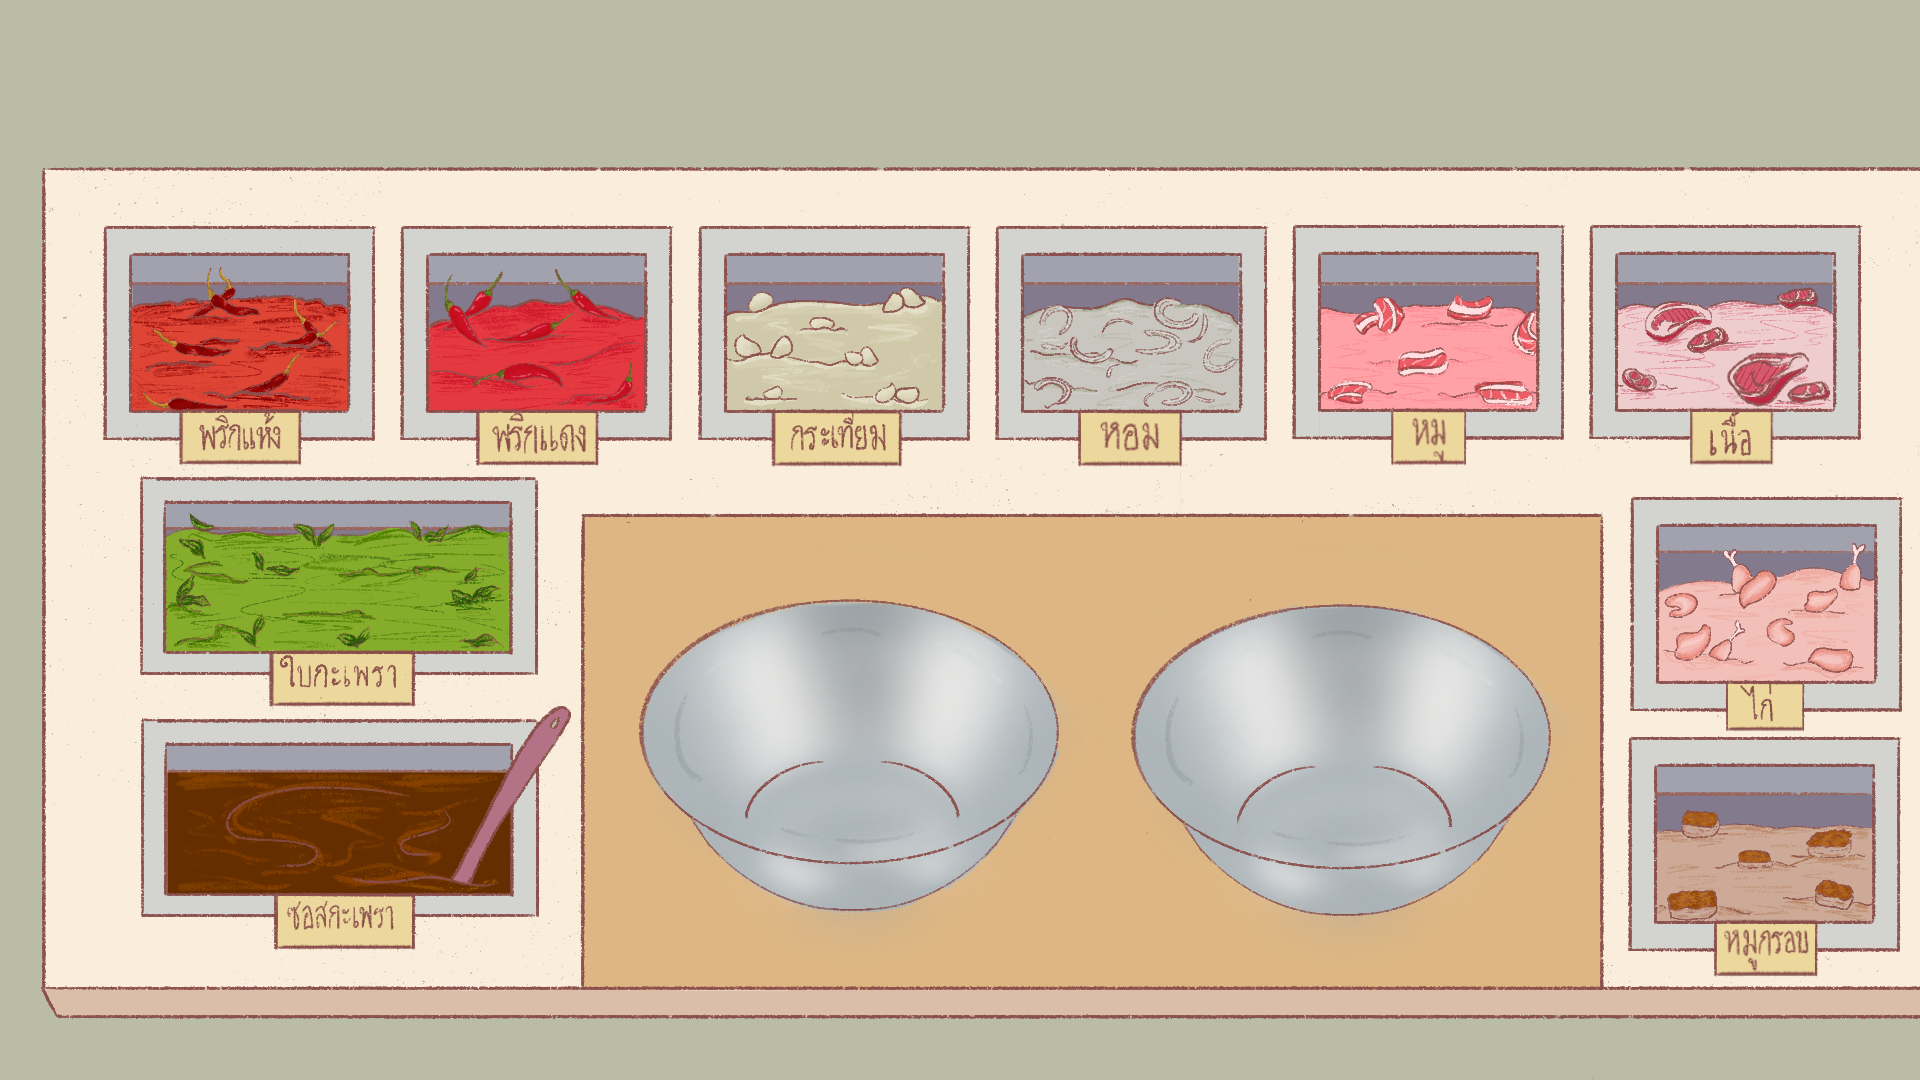
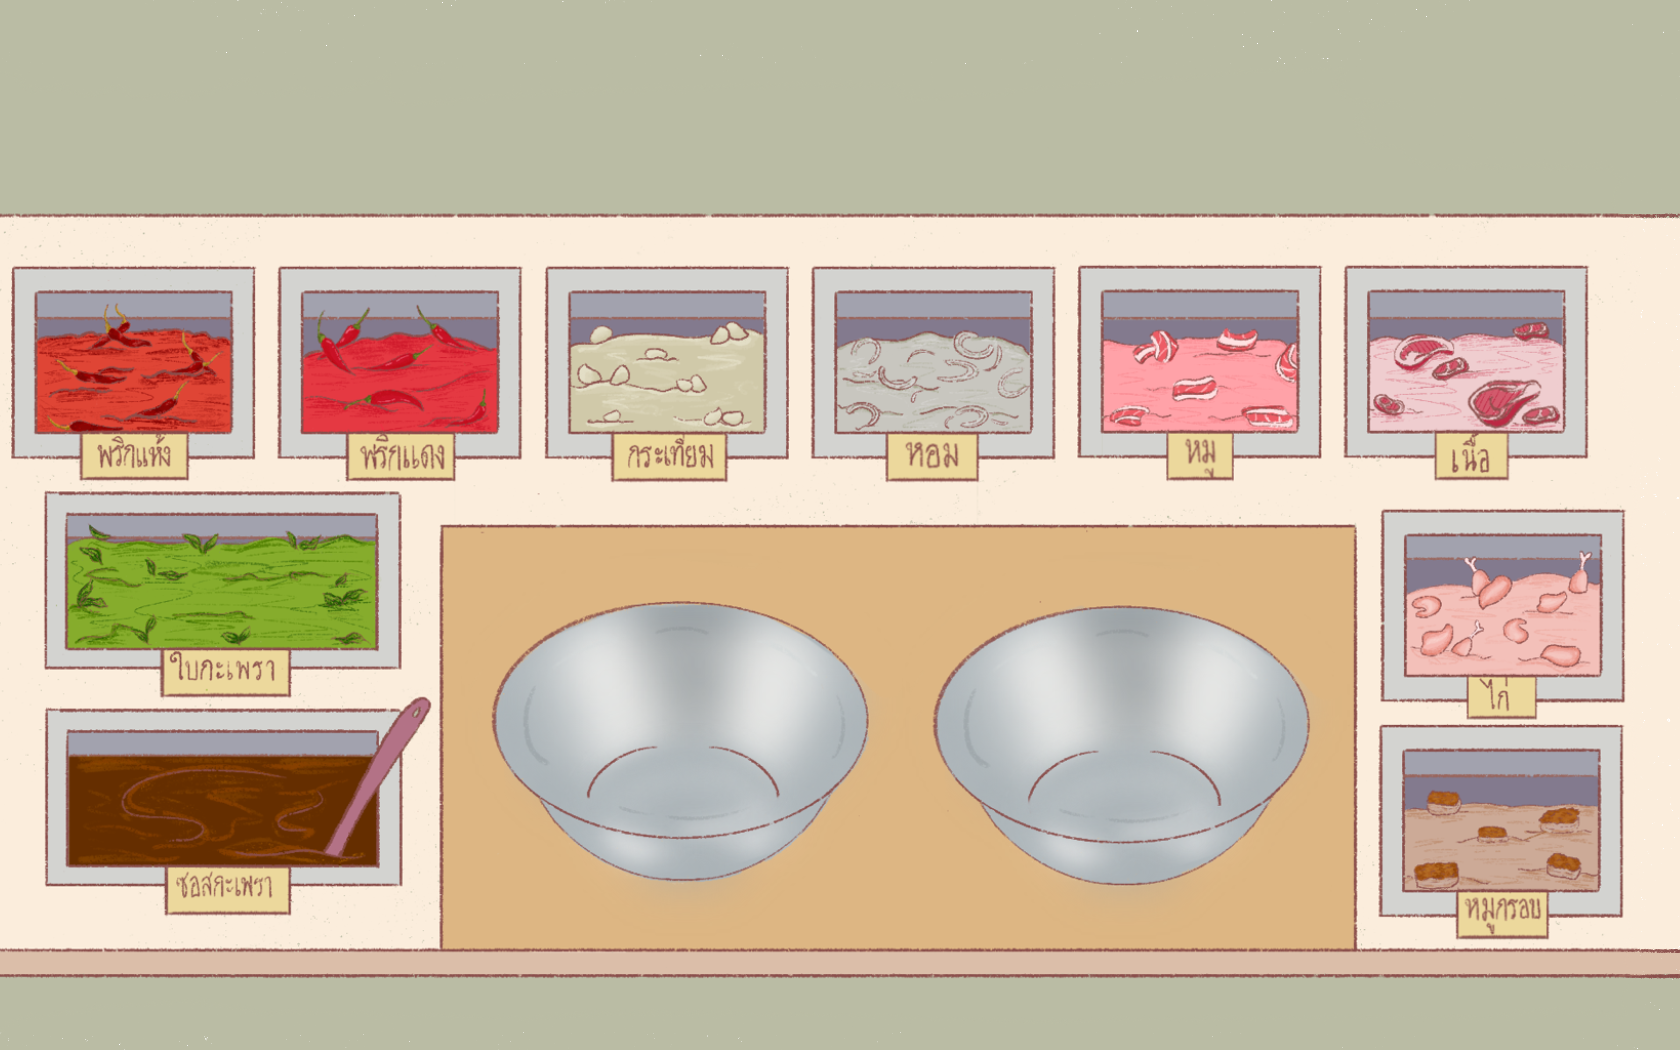
Your commit message

diff --git a/src/Main/UI.java b/src/Main/UI.java
@@ -27,8 +27,8 @@ public class UI {
 
     JFrame window;
     public JTextArea messageText;
-    public JPanel bgPanel[] = new JPanel[5];
-    public JLabel bgLabel[] = new JLabel[5];
+    public JPanel bgPanel[] = new JPanel[7];
+    public JLabel bgLabel[] = new JLabel[7];
 
     String stove = "";
     boolean start = false;
@@ -49,7 +49,7 @@ public class UI {
 
     public void createMainField() { //สร้างหน้าต่างเกม
         window = new JFrame("Padkapao Good");
-        window.setSize(1920, 1080);
+        window.setSize(1680, 1050);
         window.setDefaultCloseOperation(JFrame.EXIT_ON_CLOSE);
         window.getContentPane().setBackground(Color.black);
         window.setLayout(null);
@@ -57,11 +57,11 @@ public class UI {
 
     public void createBackground(int bgNum, String bgFileName) {
         bgPanel[bgNum] = new JPanel();
-        bgPanel[bgNum].setBounds(0, 0, 1920, 1080);
+        bgPanel[bgNum].setBounds(0, 0, 1680, 1050);
         bgPanel[bgNum].setLayout(null);
 
         bgLabel[bgNum] = new JLabel();
-        bgLabel[bgNum].setBounds(0, 0, 1920, 1080);
+        bgLabel[bgNum].setBounds(0, 0, 1680, 1050);
 
         URL location = getClass().getResource("/resources/picture/" + bgFileName);
         if (location != null) {
@@ -105,7 +105,7 @@ public class UI {
 					if (Command.equals("insertKapao")) {
 						
 						window.remove(bgPanel[3]);
-						generateStoveScene();
+						generateExtraScene();
 						
 						// refresh
 				        window.revalidate();
@@ -183,10 +183,11 @@ public class UI {
                             // change icon when clicked
                             ImageIcon clickedIcon = new ImageIcon(getClass().getResource("/resources/picture/playButtonClicked.png"));
                             startButton.setIcon(clickedIcon);
-                            generateDialogueScene();
-                            generateSelectIngScene();
-                            generateStoveScene();
-                            generatePackageScene();
+                            generateDialogueScene(); // สร้างหน้าจอสั่งข้าว
+                            generateSelectIngScene(); // สร้างหน้าจอเลือกวัตถุดิบ
+                            generateExtraScene(); // สร้างหน้าจอเลือกวัตถุดิบ
+                            generatePackageScene(); // สร้างหน้าจอผัดและแพ็ค
+                            generateGameOverScene(); //หน้าส่งอาหารให้ลูกค้า
                             System.out.println("Start!");
                         }
                     }
@@ -217,10 +218,10 @@ public class UI {
 
         // สร้างหน้าจอเมนู
         bgPanel[0] = new JPanel();
-        bgPanel[0].setBounds(0, 0, 1920, 1080);
+        bgPanel[0].setBounds(0, 0, 1680, 1050);
         bgPanel[0].setLayout(null);
 
-        createBackground(0, "menubg1920x1080.png");
+        createBackground(0, "firstpagebg.png");
         //createExitButton(0, 1800, 0, 120, 130, "ExitButton.png", "exit");
         // เรียกใช้งาน class ExitButton และสร้างปุ่ม Exit
         ExitButton exit = new ExitButton(window); // สร้างปุ่ม Exit
@@ -230,7 +231,7 @@ public class UI {
         SoundButton sound = new SoundButton(window); // สร้างปุ่มเสียง
         bgPanel[0].add(sound.getSoundButton()); // เพิ่มปุ่มเสียงลงในหน้าจอ
         
-        createStartButton(0, 740, 320, 500, 500, "playButton.png", "start");
+        createStartButton(0, 620, 300, 500, 500, "playButton.png", "start");
         //createStartButton(0, 750, 280, 500, 500, "playButtonClicked.png", "start");
 
         bgPanel[0].add(bgLabel[0]);
@@ -245,7 +246,7 @@ public class UI {
         // เรียกใช้งาน class ตัวละคร
         animeCast anime = new animeCast();
         anime.setOpaque(false);  // ทำให้ตัวละครมีพื้นหลังโปร่งใส
-        anime.setBounds(0, -100, 1920, 1080);  // ตั้งค่าตำแหน่งเริ่มต้นของตัวละคร
+        anime.setBounds(0, -122, 1920, 1080);  // ตั้งค่าตำแหน่งเริ่มต้นของตัวละคร
         window.add(bgLabel[1]);
         anime.startMoving();  // เริ่มการเคลื่อนที่ของตัวละคร
         bgPanel[1].add(anime); // เพิ่มตัวละครลงในหน้าจอ
@@ -276,28 +277,29 @@ public class UI {
     	//screen2
     	createBackground(2,"thirdpage.png");
         
+        
     	
     	// add ingredients
     	createObject(2, 200, 300, 300, 300, "kapao300x300.png", "addkapao");
     	createObject(2, 550, 300, 300, 300, "micedpork 300x300.png", "addmpork");
     	
     	createArrowButton(2, 0, 400, 300, 300, "leftArrow300x300.png", "goDialogueScreen");
-    	createArrowButton(2, 1620, 400, 300, 300, "rightArrow300x300.png", "goStoveScreen");
+    	createArrowButton(2, 1620, 400, 300, 300, "rightArrow300x300.png", "goExtraScreen");
     	
     	// add to window
     	bgPanel[2].add(bgLabel[2]);
     	window.add(bgPanel[2]);
     }
-    public void generateStoveScene() {
+    public void generateExtraScene() {
     	
     	// screen3
-    	createBackground(3,"menubg1920x1080.png");
+    	createBackground(3,"fourthpage.png"); //extra page
     	
     	createObject(3, 600, 700, 300, 300,	 "rice300x300.png", "addRice");
     	createObject(3, 200, 700, 300, 300,	 "stove300x300.png", "stove");
     	
     	createArrowButton(3, 0, 400, 300, 300, "leftArrow300x300.png", "goSelectIngScreen");
-    	createArrowButton(3, 1620, 400, 300, 300, "rightArrow300x300.png", "goPackageScreen");
+    	createArrowButton(3, 1500, 400, 300, 300, "rightArrow300x300.png", "goPackageScreen");
     	
     	// add to window
     	bgPanel[3].add(bgLabel[3]);
@@ -305,16 +307,27 @@ public class UI {
     }
     
     // generate package scenes
-    public void generatePackageScene() {
+    public void generatePackageScene() { //ผัด, แพ็ค
     	
     	// screen4
-    	createBackground(4,"packagebg1920x1080.png");
+    	createBackground(4,"fifthpage.png");
     	
-    	createArrowButton(4, 0, 400, 300, 300, "leftArrow300x300.png", "goStoveScreen");
+    	createArrowButton(4, 0, 400, 300, 300, "leftArrow300x300.png", "goExtraScreen");
+        createArrowButton(4, 1500, 400, 300, 300, "rightArrow300x300.png", "goGameOverScreen");
     	
     	// add to window
     	bgPanel[4].add(bgLabel[4]);
     	window.add(bgPanel[4]);
+    }
+    public void generateGameOverScene() { //final page (maybe)
+    	
+    	createBackground(5,"secondpage.png");
+    	
+    	//createArrowButton(5, 960, 500, 300, 300, "restart300x300.png", "restart");
+        createArrowButton(5, 0, 400, 300, 300, "leftArrow300x300.png", "goPackageScreen");
+    	
+    	bgPanel[5].add(bgLabel[5]);
+    	window.add(bgPanel[5]);
     }
     //change stove image
     public void changeStove(String Command) {
@@ -323,7 +336,7 @@ public class UI {
     	window.remove(bgPanel[3]);
             
         // create new
-    	createBackground(3,"menubg1920x1080.png");
+    	createBackground(3,"fourthpage.png");
     	
     	createObject(3, 600, 700, 300, 300,	 "rice300x300.png", "addRice");
     	
@@ -385,7 +398,7 @@ public class UI {
     	
     	switch (Command) {
     	
-    		case "insertKapao" : 
+    		case "insertKapao" :
     			
     			// add kapao with rice
     			createObject(4, 200, 500, 300, 300, "kapaoRice300x300.png", "ready2pack"); 
@@ -394,7 +407,7 @@ public class UI {
     			
     			// pack kapao
     			System.out.println("PACK TIME");
-    			createObject(4, 900, 500, 300, 300, "package300x300.png", "NULL"); 
+    			createObject(4, 900, 500, 300, 300, "package300x300.png", "NULL");
     			break;
     	}
     	
@@ -408,15 +421,6 @@ public class UI {
     }
     // timer
     	
-    public void generateGameOverScene() {
-    	
-    	createBackground(5,"gameoverbg1920x1080.png");
-    	
-    	createArrowButton(5, 960, 500, 300, 300, "restart300x300.png", "restart");
-    	
-    	bgPanel[5].add(bgLabel[5]);
-    	window.add(bgPanel[5]);
-    }
     // timer
     public void timer(int time, String Command) {
     	Timer timer = new Timer();
@@ -461,7 +465,7 @@ public class UI {
     			
     			// create game over scene
     			generateGameOverScene();
-    			gm.sChanger.showGameOver();
+    			gm.sChanger.showGameOverScreen();
     			timer.cancel();
     			
     		} else if (count < 0 && Command.equals("STOVE") && onStove == true) {

diff --git a/src/Main/SceneChanger.java b/src/Main/SceneChanger.java
@@ -23,6 +23,7 @@ public class SceneChanger {
 		gm.ui.bgPanel[2].setVisible(false);
 		gm.ui.bgPanel[3].setVisible(false);
 		gm.ui.bgPanel[4].setVisible(false);
+		gm.ui.bgPanel[5].setVisible(false);
 	}
 	// show select ingredient screen
 	public void showSelectIngScreen() {
@@ -34,9 +35,10 @@ public class SceneChanger {
 		gm.ui.bgPanel[2].setVisible(true);
 		gm.ui.bgPanel[3].setVisible(false);
 		gm.ui.bgPanel[4].setVisible(false);
+		gm.ui.bgPanel[5].setVisible(false);
 	}
 	// show stove screen
-	public void showStoveScreen() {
+	public void showExtraScreen() {
 
 		bgNow = 3;
 		
@@ -45,6 +47,7 @@ public class SceneChanger {
 		gm.ui.bgPanel[2].setVisible(false);
 		gm.ui.bgPanel[3].setVisible(true);
 		gm.ui.bgPanel[4].setVisible(false);
+		gm.ui.bgPanel[5].setVisible(false);
 	}
 	// show package screen
 	public void showPackageScreen() {
@@ -56,14 +59,18 @@ public class SceneChanger {
 		gm.ui.bgPanel[2].setVisible(false);
 		gm.ui.bgPanel[3].setVisible(false);
 		gm.ui.bgPanel[4].setVisible(true);
+		gm.ui.bgPanel[5].setVisible(false);
 	}
 	
-	public void showGameOver() {
+	public void showGameOverScreen() {
+
+		bgNow = 5;
 		
 		gm.ui.bgPanel[0].setVisible(false);
 		gm.ui.bgPanel[1].setVisible(false);
 		gm.ui.bgPanel[2].setVisible(false);
 		gm.ui.bgPanel[3].setVisible(false);
 		gm.ui.bgPanel[4].setVisible(false);
+		gm.ui.bgPanel[5].setVisible(true);
 	}
 }

diff --git a/src/Main/ActionHandler.java b/src/Main/ActionHandler.java
@@ -25,8 +25,9 @@ public class ActionHandler implements ActionListener{
 		case "start" : gm.sChanger.showDialogueScreen(); break;
 		case "goDialogueScreen":gm.sChanger.showDialogueScreen(); break;
 		case "goSelectIngScreen":gm.sChanger.showSelectIngScreen(); break;
-		case "goStoveScreen":gm.sChanger.showStoveScreen(); break;
+		case "goExtraScreen":gm.sChanger.showExtraScreen(); break;
 		case "goPackageScreen":gm.sChanger.showPackageScreen(); break;
+		case "goGameOverScreen":gm.sChanger.showGameOverScreen(); break;
 		}
 	}
 }

diff --git a/src/ui/ExitButton.java b/src/ui/ExitButton.java
@@ -21,7 +21,7 @@ public class ExitButton {
         }
 
         // กำหนดขนาดและตำแหน่งของปุ่ม Exit
-        exitButton.setBounds(1800, 0, 120, 130);
+        exitButton.setBounds(1550, 5, 140, 120);
         exitButton.setBackground(null);
         exitButton.setContentAreaFilled(false);
         exitButton.setBorderPainted(false);
